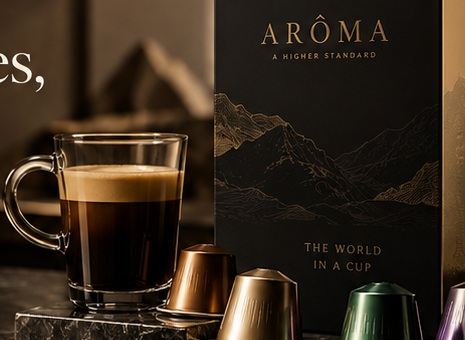
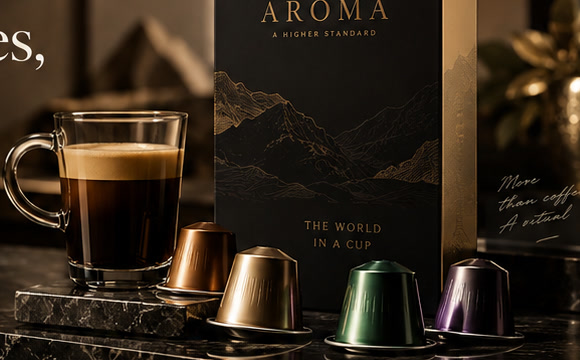
fix: replace viewport wallpaper with split-grid DOM composition
Platform gate flagged absolute inset-0 + /design-refs/ as mockup
wallpaper. Restructure hero and sustainability into real two-column
grids with contained photography from /images/, keeping design-refs
PNG as blueprint reference only via lib/design-refs.ts.

- Hero: left content column on solid black, right product photo column
- Sustainability: black content panel + contained plantation column
- Runtime photos served from /images/ (photo-only crops)
- Remove section-level absolute inset-0 hero underlay pattern

VPods-Actor: vpods-hire:rae/task_3ab30883

diff --git a/app/page.tsx b/app/page.tsx
@@ -1,6 +1,6 @@
 import Image from "next/image";
 import Header from "@/components/Header";
-import { MOCKUP_BLUEPRINT } from "@/lib/design-refs";
+import { MOCKUP_BLUEPRINT, sectionPhotos } from "@/lib/design-refs";
 
 /* ── Trust strip icons ── */
 function LeafIcon() {
@@ -47,96 +47,94 @@ const trustItems = [
   { icon: TruckIcon, label: ["Fast & Secure", "Delivery"] },
 ];
 
-/** Photo-only crops from mockup blueprint /design-refs/ChatGPT-Image-Sep-7-2026-01_27_23-PM.png */
 const collections = [
   {
     title: "Signature Blends",
     tagline: "Timeless classics, perfected.",
-    image: "/design-refs/collection-signature-crop.jpg",
+    image: sectionPhotos.collections.signature,
     alt: "Bronze capsule on stone with coffee beans",
   },
   {
     title: "Single Origin",
     tagline: "Distinctive. Authentic. Unforgettable.",
-    image: "/design-refs/collection-single-origin-crop.jpg",
+    image: sectionPhotos.collections.singleOrigin,
     alt: "Green capsule among coffee leaves",
   },
   {
     title: "Espresso Intenso",
     tagline: "Bold flavors for a stronger you.",
-    image: "/design-refs/collection-espresso-intenso-crop.jpg",
+    image: sectionPhotos.collections.espressoIntenso,
     alt: "Black capsule on dark volcanic rock",
   },
   {
     title: "Flavored Editions",
     tagline: "A delightful twist on tradition.",
-    image: "/design-refs/collection-flavored-crop.jpg",
+    image: sectionPhotos.collections.flavored,
     alt: "Purple capsule with vanilla and cinnamon",
   },
-] as const;
+];
 
 export default function HomePage() {
   return (
     <main data-mockup-blueprint={MOCKUP_BLUEPRINT}>
-      {/* ── HERO ── */}
-      <section className="relative min-h-[90vh] overflow-hidden bg-aroma-black lg:min-h-screen">
-        {/* Hero photography */}
-        <div className="absolute inset-0">
-          <Image
-            src="/design-refs/hero-marble-crop.jpg"
-            alt="Marble countertop with espresso, ARÔMA capsule box, and colorful capsules"
-            fill
-            priority
-            className="object-cover object-[62%_58%] lg:object-[58%_52%]"
-            sizes="100vw"
-          />
-          <div className="absolute inset-0 bg-gradient-to-r from-aroma-black from-0% via-aroma-black/95 via-35% to-aroma-black/15 to-55% lg:via-40% lg:to-50%" />
-        </div>
-
+      {/* ── HERO — split grid: content left, product photo right (no viewport wallpaper) ── */}
+      <section className="relative bg-aroma-black">
         <Header />
 
-        {/* Decorative script — mockup right overlay */}
-        <p
-          className="pointer-events-none absolute bottom-[32%] right-6 hidden font-serif text-xl italic leading-snug text-white/45 lg:block xl:right-12 xl:text-2xl"
-          aria-hidden="true"
-        >
-          More than coffee
-          <br />
-          <span className="text-white/65">A ritual</span>
-        </p>
+        <div className="mx-auto grid max-w-7xl lg:grid-cols-2 lg:min-h-screen">
+          {/* Left column — real DOM copy on solid dark ground */}
+          <div className="relative z-10 flex flex-col justify-center px-6 pb-12 pt-28 lg:px-10 lg:pb-20 lg:pt-36">
+            <div className="max-w-xl">
+              <p className="eyebrow mb-4">
+                Exceptional Coffee. Extraordinary Moments.
+              </p>
+              <h1 className="font-serif text-4xl font-light leading-tight text-white md:text-5xl lg:text-[3.25rem] lg:leading-[1.15]">
+                Nespresso Capsules,
+                <br />
+                Redefined
+              </h1>
+              <p className="mt-5 max-w-md font-sans text-sm leading-relaxed text-white/75 md:text-[15px]">
+                Discover a curated selection of Nespresso® compatible capsules from
+                the world&apos;s finest coffee regions. Crafted for those who
+                appreciate the extraordinary.
+              </p>
+              <a href="#collections" className="btn-gold mt-8">
+                Shop Our Collection →
+              </a>
+            </div>
 
-        <div className="relative mx-auto flex max-w-7xl flex-col justify-center px-6 pb-16 pt-32 lg:min-h-screen lg:px-10 lg:pb-24 lg:pt-40">
-          <div className="max-w-xl">
-            <p className="eyebrow mb-4">
-              Exceptional Coffee. Extraordinary Moments.
-            </p>
-            <h1 className="font-serif text-4xl font-light leading-tight text-white md:text-5xl lg:text-[3.25rem] lg:leading-[1.15]">
-              Nespresso Capsules,
-              <br />
-              Redefined
-            </h1>
-            <p className="mt-5 max-w-md font-sans text-sm leading-relaxed text-white/75 md:text-[15px]">
-              Discover a curated selection of Nespresso® compatible capsules from
-              the world&apos;s finest coffee regions. Crafted for those who
-              appreciate the extraordinary.
-            </p>
-            <a href="#collections" className="btn-gold mt-8">
-              Shop Our Collection →
-            </a>
+            <div className="mt-12 grid max-w-2xl grid-cols-2 gap-6 sm:grid-cols-4 lg:mt-16">
+              {trustItems.map(({ icon: Icon, label }) => (
+                <div key={label.join("-")} className="flex flex-col items-start gap-2 text-aroma-gold">
+                  <Icon />
+                  <span className="font-sans text-[9px] font-medium uppercase leading-tight tracking-[0.15em] text-white/80 md:text-[10px]">
+                    {label[0]}
+                    <br />
+                    {label[1]}
+                  </span>
+                </div>
+              ))}
+            </div>
           </div>
 
-          {/* Trust strip */}
-          <div className="mt-12 grid max-w-2xl grid-cols-2 gap-6 sm:grid-cols-4 lg:mt-16">
-            {trustItems.map(({ icon: Icon, label }) => (
-              <div key={label.join("-")} className="flex flex-col items-start gap-2 text-aroma-gold">
-                <Icon />
-                <span className="font-sans text-[9px] font-medium uppercase leading-tight tracking-[0.15em] text-white/80 md:text-[10px]">
-                  {label[0]}
-                  <br />
-                  {label[1]}
-                </span>
-              </div>
-            ))}
+          {/* Right column — contained product photography */}
+          <div className="relative min-h-[340px] sm:min-h-[420px] lg:min-h-full">
+            <Image
+              src={sectionPhotos.hero}
+              alt="Marble countertop with espresso, ARÔMA capsule box, and colorful capsules"
+              fill
+              priority
+              className="object-cover object-center"
+              sizes="(max-width: 1024px) 100vw, 50vw"
+            />
+            <p
+              className="pointer-events-none absolute bottom-[18%] right-6 font-serif text-lg italic leading-snug text-white/50 sm:text-xl lg:right-10 lg:text-2xl"
+              aria-hidden="true"
+            >
+              More than coffee
+              <br />
+              <span className="text-white/70">A ritual</span>
+            </p>
           </div>
         </div>
       </section>
@@ -144,7 +142,6 @@ export default function HomePage() {
       {/* ── OUR COLLECTIONS ── */}
       <section id="collections" className="bg-aroma-cream py-16 lg:py-24">
         <div className="mx-auto max-w-7xl px-6 lg:px-10">
-          {/* Section header */}
           <div className="mb-12 text-center lg:mb-16">
             <p className="font-sans text-[10px] font-medium uppercase tracking-[0.25em] text-aroma-gold md:text-xs">
               Explore
@@ -157,7 +154,6 @@ export default function HomePage() {
             </p>
           </div>
 
-          {/* Collection grid — photo cards with top overlay + bottom CTA per mockup */}
           <div className="grid gap-5 sm:grid-cols-2 lg:grid-cols-4 lg:gap-4">
             {collections.map((col) => (
               <article
@@ -194,38 +190,34 @@ export default function HomePage() {
         </div>
       </section>
 
-      {/* ── SUSTAINABILITY — full-width plantation photo with split overlay ── */}
-      <section id="sustainability" className="relative min-h-[520px] overflow-hidden lg:min-h-[580px]">
-        <Image
-          src="/design-refs/sustainability-plantation-crop.jpg"
-          alt="Coffee plantation at golden hour in misty mountains"
-          fill
-          className="object-cover object-left-center lg:object-[30%_center]"
-          sizes="100vw"
-        />
-        <div className="absolute inset-0 bg-aroma-black/40" />
+      {/* ── SUSTAINABILITY — split grid, no full-bleed wallpaper ── */}
+      <section id="sustainability" className="grid lg:grid-cols-2">
+        <div className="flex flex-col justify-center bg-aroma-black px-6 py-16 lg:px-14 lg:py-24 xl:px-20">
+          <p className="eyebrow mb-4">A Richer Tomorrow</p>
+          <h2 className="font-serif text-3xl font-light leading-tight text-white md:text-4xl lg:text-[2.75rem]">
+            Sustainability in
+            <br />
+            Every Capsule
+          </h2>
+          <p className="mt-5 max-w-md font-sans text-sm leading-relaxed text-white/70 md:text-[15px]">
+            Great coffee should be good for the planet. Our capsules are
+            responsibly sourced and many are recyclable, so you can enjoy
+            every cup with a clear conscience.
+          </p>
+          <a href="#commitment" className="btn-gold mt-8 w-fit">
+            Our Commitment →
+          </a>
+        </div>
 
-        <div className="relative grid min-h-[520px] lg:min-h-[580px] lg:grid-cols-2">
-          {/* Left content panel */}
-          <div className="flex flex-col justify-center bg-aroma-black px-6 py-16 lg:px-14 lg:py-24 xl:px-20">
-            <p className="eyebrow mb-4">A Richer Tomorrow</p>
-            <h2 className="font-serif text-3xl font-light leading-tight text-white md:text-4xl lg:text-[2.75rem]">
-              Sustainability in
-              <br />
-              Every Capsule
-            </h2>
-            <p className="mt-5 max-w-md font-sans text-sm leading-relaxed text-white/70 md:text-[15px]">
-              Great coffee should be good for the planet. Our capsules are
-              responsibly sourced and many are recyclable, so you can enjoy
-              every cup with a clear conscience.
-            </p>
-            <a href="#commitment" className="btn-gold mt-8 w-fit">
-              Our Commitment →
-            </a>
-          </div>
-
-          {/* Right quote over plantation */}
-          <div className="flex items-center justify-center px-8 py-16 lg:px-12 lg:py-24">
+        <div className="relative min-h-[360px] lg:min-h-[580px]">
+          <Image
+            src={sectionPhotos.sustainability}
+            alt="Coffee plantation at golden hour in misty mountains"
+            fill
+            className="object-cover object-left-center lg:object-[30%_center]"
+            sizes="(max-width: 1024px) 100vw, 50vw"
+          />
+          <div className="absolute inset-0 flex items-center justify-center bg-aroma-black/25 px-8 py-16 lg:px-12">
             <blockquote className="max-w-sm text-center">
               <p className="font-serif text-xl italic leading-relaxed text-white md:text-2xl lg:text-[1.65rem]">
                 &ldquo;Extraordinary coffee can create a better tomorrow.&rdquo;

diff --git a/lib/design-refs.ts b/lib/design-refs.ts
@@ -1,20 +1,19 @@
 /**
- * Photo-only crops sourced from the mockup blueprint at
- * /design-refs/ChatGPT-Image-Sep-7-2026-01_27_23-PM.png
- *
- * These paths wire section photography to design-refs assets.
- * Full mockup PNG is reference only — never used as a page wallpaper.
+ * Mockup blueprint at public/design-refs/ — layout reference only.
+ * Runtime photography is served from /images/ (photo-only crops).
+ * Never render the full PNG or design-refs paths as a viewport wallpaper.
  */
 export const MOCKUP_BLUEPRINT =
   "/design-refs/ChatGPT-Image-Sep-7-2026-01_27_23-PM.png";
 
-export const designRefPhotos = {
-  hero: "/design-refs/hero-marble-crop.jpg",
-  sustainability: "/design-refs/sustainability-plantation-crop.jpg",
+/** Section photography (photo-only crops derived from blueprint, served via /images/) */
+export const sectionPhotos = {
+  hero: "/images/hero-marble.jpg",
+  sustainability: "/images/sustainability-plantation.jpg",
   collections: {
-    signature: "/design-refs/collection-signature-crop.jpg",
-    singleOrigin: "/design-refs/collection-single-origin-crop.jpg",
-    espressoIntenso: "/design-refs/collection-espresso-intenso-crop.jpg",
-    flavored: "/design-refs/collection-flavored-crop.jpg",
+    signature: "/images/collection-signature.jpg",
+    singleOrigin: "/images/collection-single-origin.jpg",
+    espressoIntenso: "/images/collection-espresso-intenso.jpg",
+    flavored: "/images/collection-flavored.jpg",
   },
 } as const;
